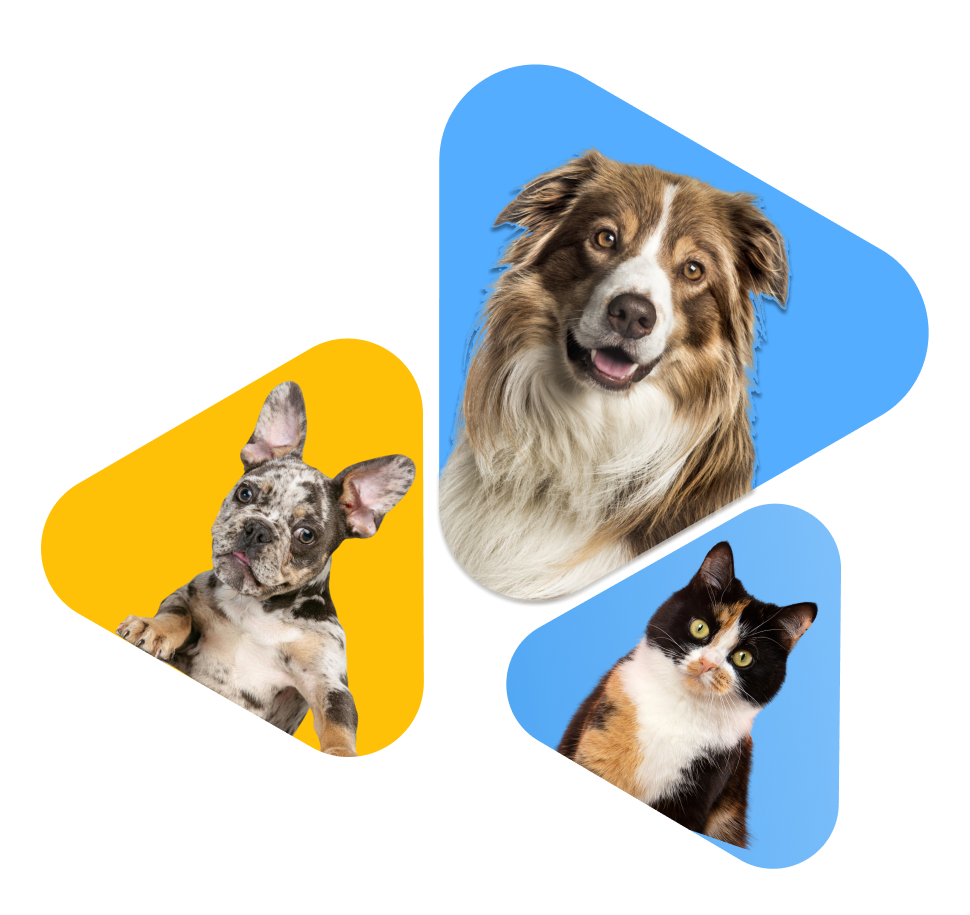
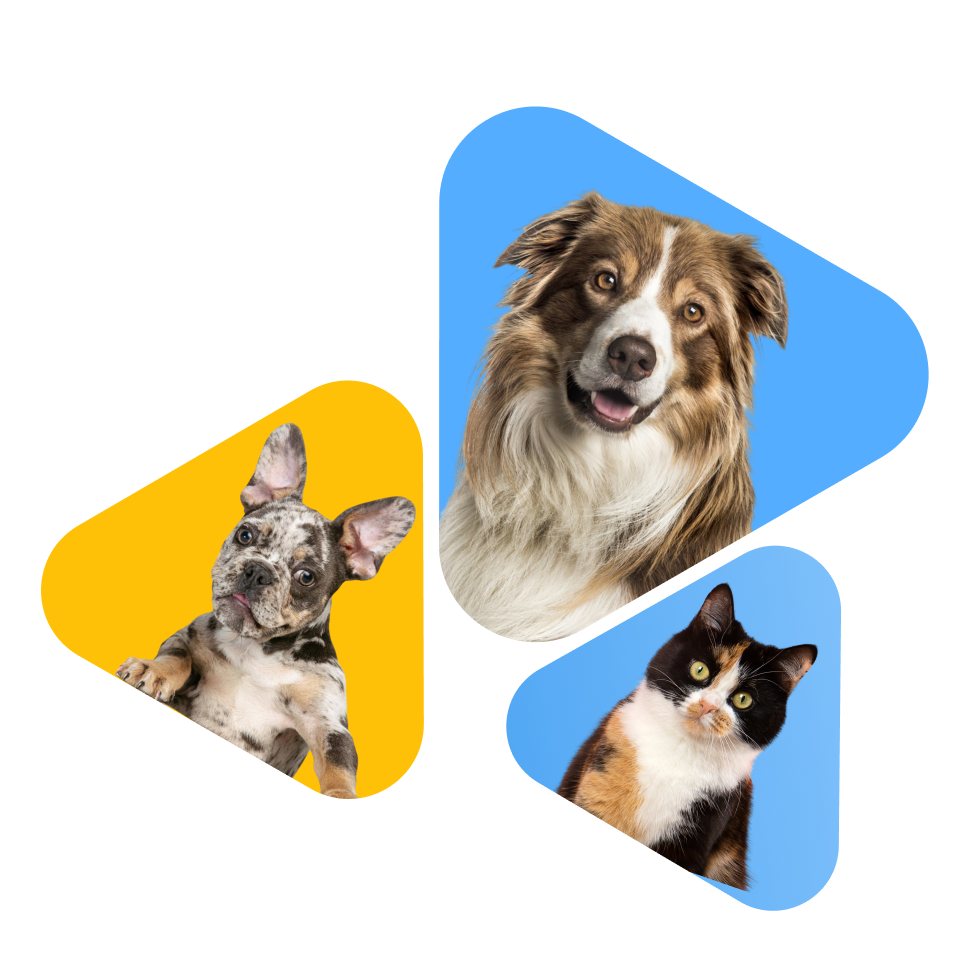
edit_photo_hero

Changed region(s): [[0.0608, 0.0612, 0.9727, 0.9486], [0.5168, 0.7038, 0.5472, 0.7956], [0.0304, 0.5508, 0.0608, 0.5814]]

diff --git a/src/components/Section/Section.styled.js b/src/components/Section/Section.styled.js
@@ -14,12 +14,11 @@ import {
 
 
 export const SectionStyle = styled.section`
-    width: 100vw;
+    max-width: 100%;
     background-color: ${props => props.theme.colors.background};
 
-    ${props => props.$bg && `
-  width: 100vw;  
-  height: calc(100vh - 48px);
+    ${props => props.$bg && ` 
+  max-height: calc(100vh - 48px);
   margin: 0 auto;
   background-repeat: no-repeat;
   background-position: center top;
@@ -58,6 +57,7 @@ export const SectionStyle = styled.section`
   }
 
   @media screen and (min-width: 1280px) {
+    max-height: calc(100vh - 72px);
     background-image: url(${desc1x});
 
     @media screen and (min-device-pixel-ratio: 2),
@@ -85,13 +85,11 @@ export const Container = styled.div`
     width: 786px;
     padding-left: 32px;
     padding-right: 32px;
-    padding-top: 24px;
   }
 
   @media screen and (min-width: 1280px) {
     width: 1280px;
     padding-left: 16px;
     padding-right: 16px;
-    padding-top: 20px;
   }
 `;

diff --git a/src/components/Hero/Hero.styled.js b/src/components/Hero/Hero.styled.js
@@ -70,7 +70,7 @@ export const ImgWrap = styled.picture`
     margin-left: -154px;
     min-width: auto;
     width: calc(100vw - 363px);
-    height: calc(100vh - 70px);
+    height: calc(100vh - 52px);
   }
 `;
 
@@ -83,15 +83,14 @@ export const HeroImg = styled.img`
   @media screen and (${props => props.theme.media.tablet}) {
     margin-top: -100px;
     min-width: 960px;
-    min-height: 927px;
+    min-height: 915px;
   }
 
   @media screen and (${props => props.theme.media.desktop}) {
     margin-top: 0;
-    min-width: 896px;
+    min-width: 872px;
     max-width: 842px;
-    max-height: auto;
-    min-height: 924px;
+    min-height: 896px;
   }
 `;
 
